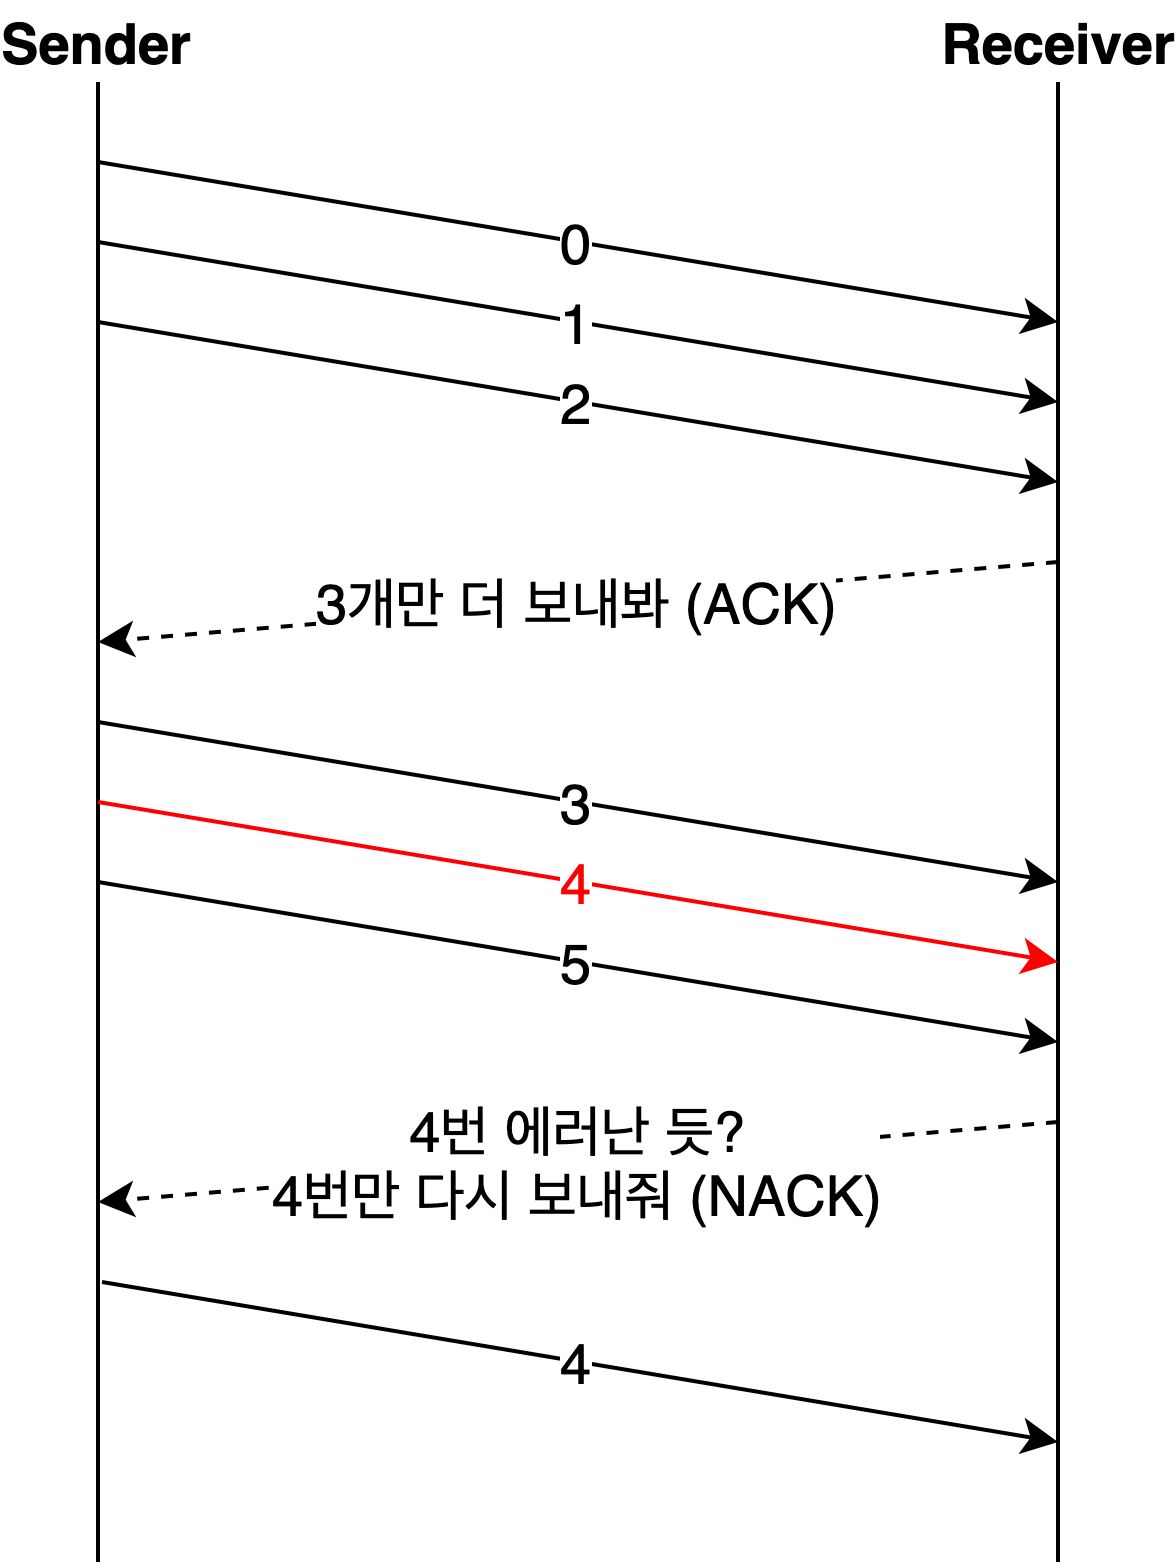
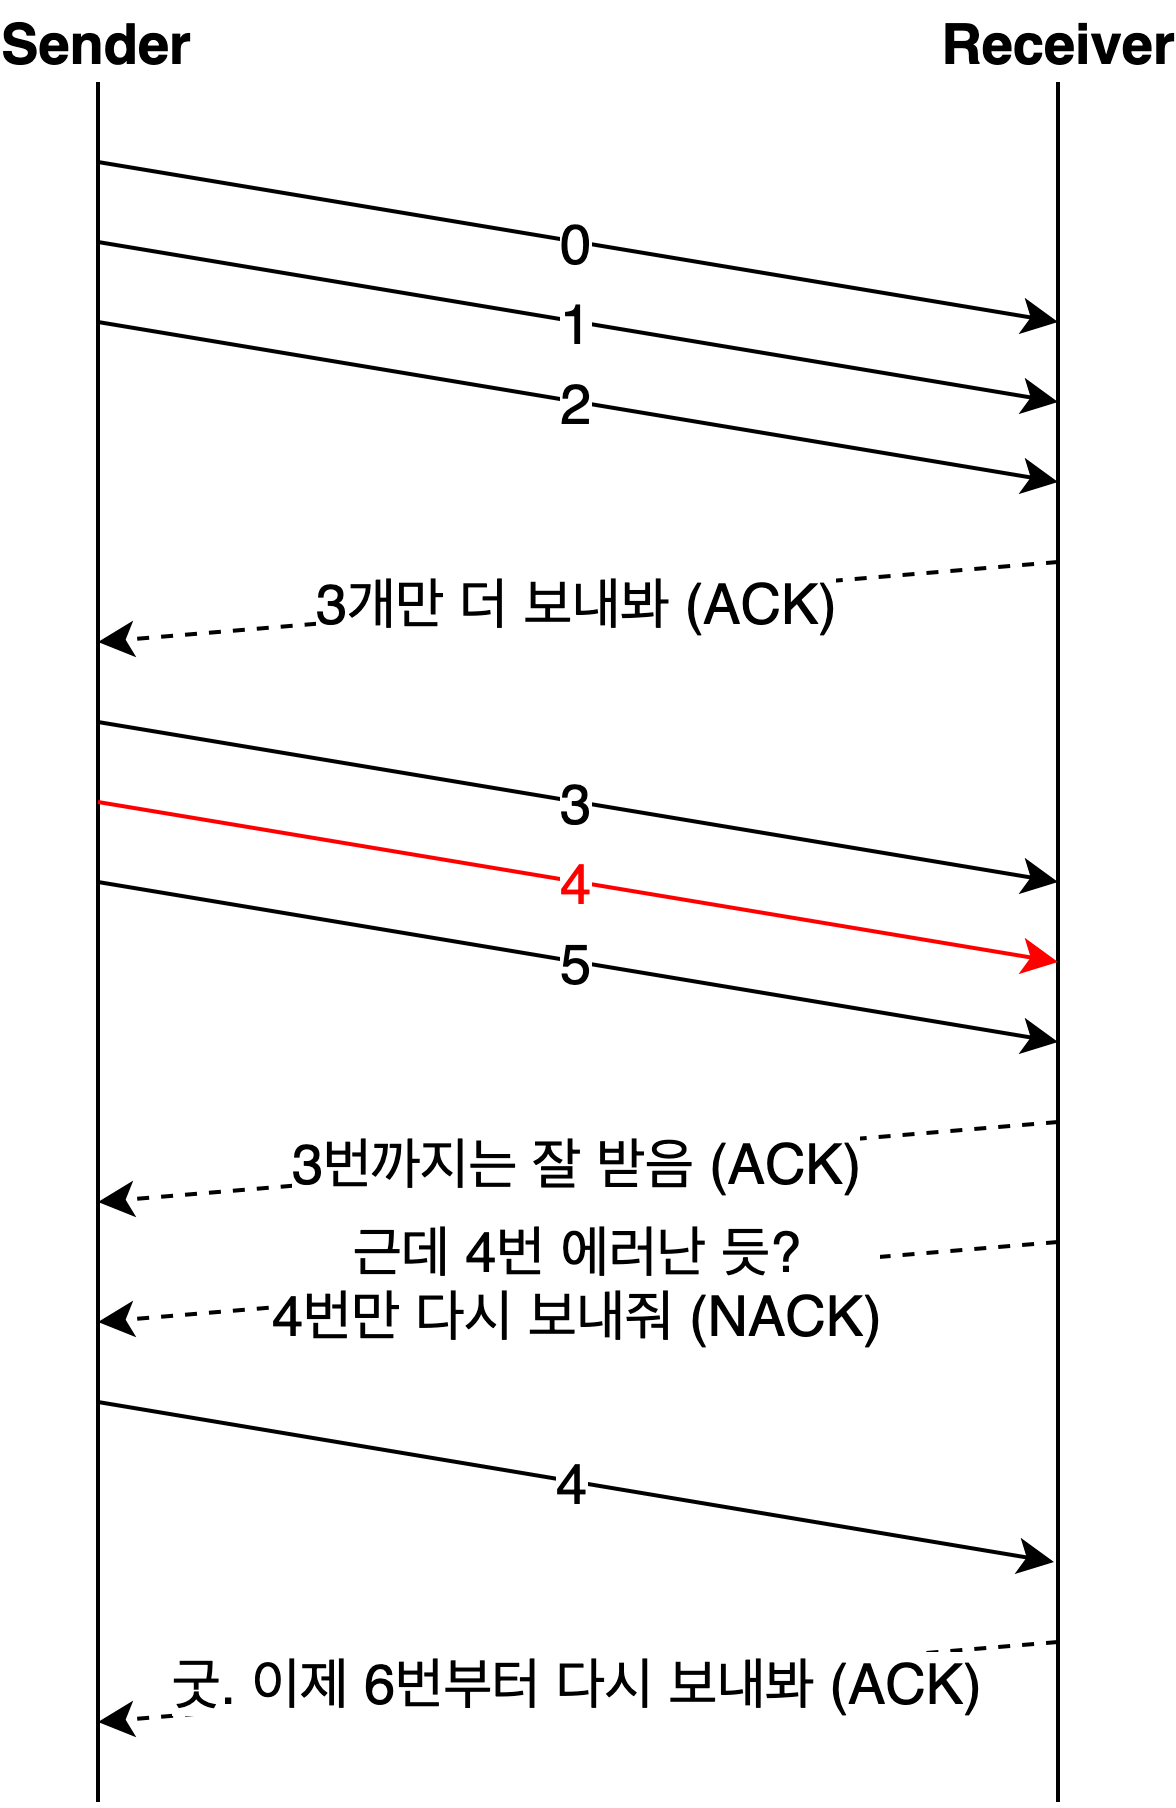
selective repeat 방식 설명 추가

diff --git a/source/_drafts/tcp-flow-control-and-congestion-control.md b/source/_drafts/tcp-flow-control-and-congestion-control.md
@@ -160,11 +160,20 @@ Go back N 방식에서 수신 측이 4번 데이터에서 에러가 발생했음
 즉, 송신 측은 수신 측으로 NACK를 받고나면 오류가 발생한 4번 데이터와 그 이후 전송했던 모든 데이터를 다시 전송해줘야 한다는 말이 된다. 이때 송신 측은 비록 5번까지 전송했지만 오류가 발생하면, 오류가 발생한 4번 데이터로 되돌아가서 다시 전송해야하므로 `Go Back N`이라고 부르는 것이다.
 
 ### Selective Repeat
+`Selective Repeat`은 말 그대로 `선택적인 재전송`을 의미한다. Go Back N 방법도 Stop and Wait에 비하면 많이 효율적인 방법이지만, 에러가 발생하면 그 이후에 정상적으로 전송되었던 데이터까지 모두 폐기 처분되어 다시 전송해야한다는 비효율이 아직 존재한다.
+
+그래서 나온 방식이 `에러난 데이터만 재전송해줘` 방식인 것이다.
 
 <center>
   {% asset_img selective-repeat.png 400 %}
   <br>
 </center>
+
+얼핏 보면 이 방식이 굉장히 효율적이고 좋기만 한 것 같지만, Stop and Wait와 Go Back N 방식과 다르게 이 방식을 사용하는 수신 측의 버퍼에 쌓인 데이터는 연속적이지 않다는 단점이 존재한다.
+
+위 예시만 봐도 수신 측의 버퍼에는 `0, 1, 2, 3, 4, 5`가 순차적으로 들어있는 것이 아니라, 중간에 폐기 처분된 4를 제외한 `0, 1, 2, 3, 5`만 버퍼에 존재할 것이기 때문이다. 이때 송신 측이 4를 재전송하게되면 수신 측은 이 데이터를 버퍼 중간 어딘가에 끼워넣어서 데이터를 정렬해야한다.
+
+재전송이라는 과정이 빠진 대신 재정렬이라는 과정이 추가된 것인데, 이 둘 중에 재전송이 좀 더 이득이라고 생각되면 Go Bank N 방식을, 재정렬이 좀 더 이득이라고 생각되면 Selective Repeat 방식을 사용하면된다.
 
 ## TCP의 혼잡 제어
 
